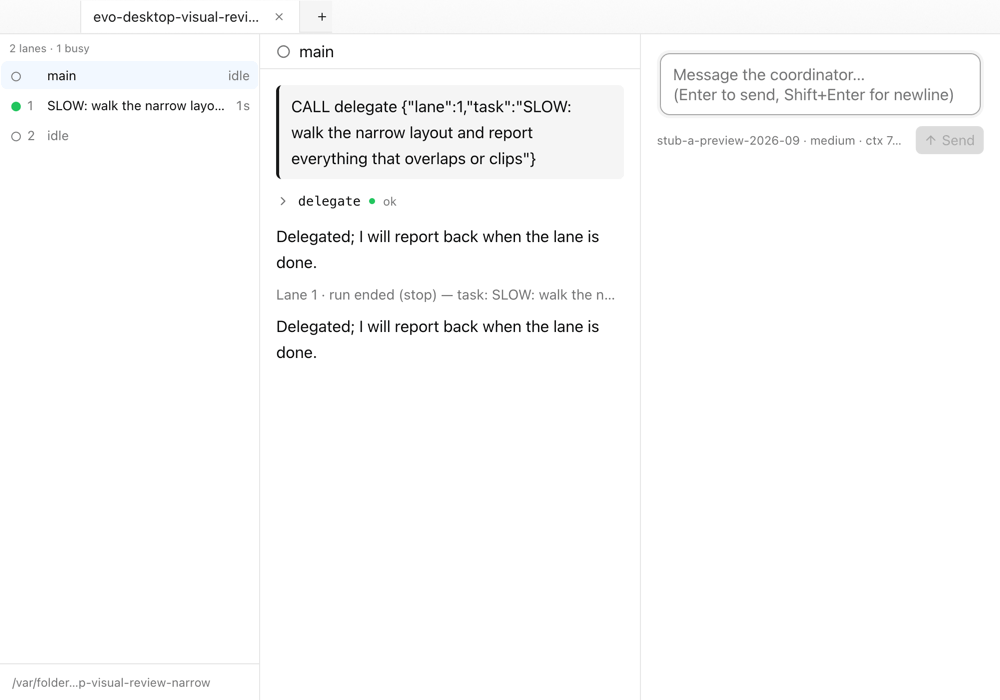
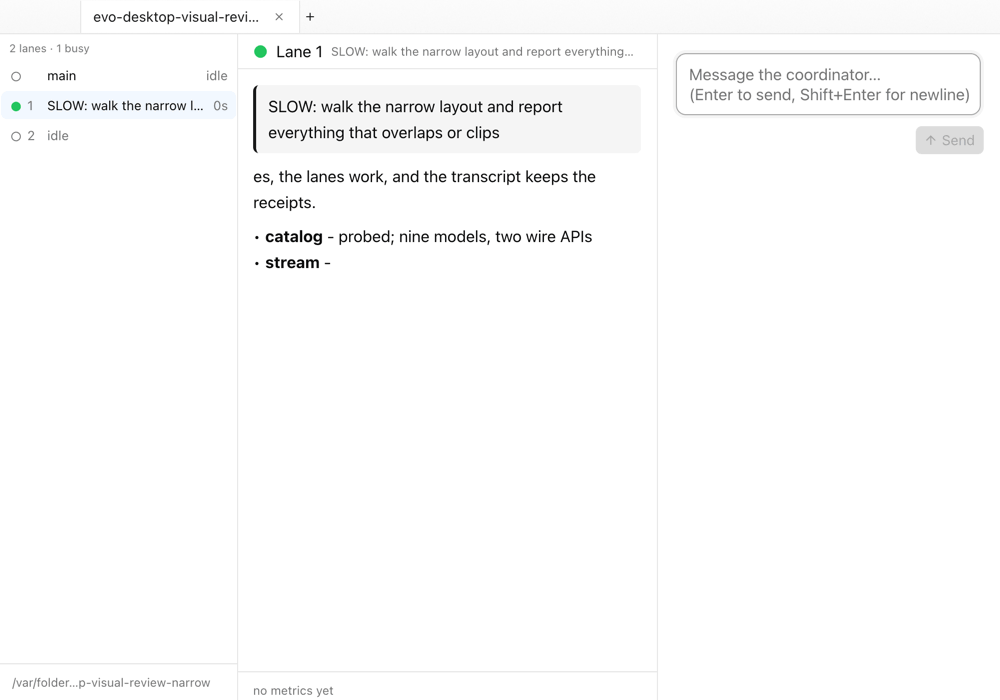
docs(screens): the golden set re-taken at 03fcadd
Twenty captures from one run of app_snapshot at 1x (quantised +dither,
192 colours, 1.0 MB) showing the tree that ships: draggable column
splits, the status line under the transcript following the selected
agent, the composer row down to Send/Stop, lower-case tool captions,
the + outside the tab strip, a failed run said once, and the quiet
lane-notice rows. docs/screens.md is updated row by row. The capture
harness now keeps 04's tool row open across a resync, reads 09's
failure from either row shape, and dumps its rows when a state is
missed. OCR finds no private markers in any frame.

diff --git a/crates/app/examples/app_snapshot.rs b/crates/app/examples/app_snapshot.rs
@@ -629,6 +629,12 @@ fn capture(dir: &Path, scale: f32, only: &[String]) -> Result<(), Box<dyn std::e
     cx.run_until_parked();
     if shot_here("04-tool-expanded") {
         both_themes_prepared(&mut cx, window, dir, "04-tool-expanded", screens, |cx| {
+            // Opened twice, with the queue drained in between: opening the row is
+            // itself a pump, and a resync that lands in it clears the expansion, so
+            // the second open — with nothing left queued behind it — is the one the
+            // picture is taken of.
+            expand_tool_row(cx, &first);
+            cx.run_until_parked();
             expand_tool_row(cx, &first);
         })?;
     }
@@ -810,6 +816,17 @@ fn capture(dir: &Path, scale: f32, only: &[String]) -> Result<(), Box<dyn std::e
     let retried = wait_within(&mut cx, 60, |cx| dim_row(cx, &bad, "retrying").is_some());
     let ended = wait_within(&mut cx, 90, |cx| run_outcome(cx, &bad).is_some());
     println!("[state] compaction row: {compacted}, retry row: {retried}, outcome row: {ended}");
+    if !compacted || !retried || !ended {
+        // Said in the log, because a picture of a state that was not reached
+        // cannot say what it missed.
+        println!(
+            "[state] the deep-context tab was working: {}",
+            working(&cx, &bad)
+        );
+        for row in row_dump(&cx, &bad) {
+            println!("[rows] {row}");
+        }
+    }
     if let Some(outcome) = run_outcome(&cx, &bad) {
         println!(
             "[state] the run says: {}",
@@ -1133,10 +1150,16 @@ fn both_themes_prepared(
     screens: Screens,
     prepare: impl Fn(&mut HeadlessAppContext),
 ) -> Result<(), Box<dyn std::error::Error>> {
+    // Whatever is already queued — a resync, most of all — is applied *before*
+    // the state is prepared: a rebuild that lands while a row is open replaces
+    // the rows and the expansion goes with them, and the picture is then of the
+    // state before the prepare.
     cx.update(|cx| Theme::change(ThemeMode::Light, None, cx));
+    cx.run_until_parked();
     prepare(cx);
     shot(cx, window, dir, &format!("{name}-light.png"), screens)?;
     cx.update(|cx| Theme::change(ThemeMode::Dark, None, cx));
+    cx.run_until_parked();
     prepare(cx);
     shot(cx, window, dir, &format!("{name}-dark.png"), screens)?;
     Ok(())
@@ -1310,10 +1333,18 @@ fn row_dump(cx: &HeadlessAppContext, tab: &Entity<workspace::TabContent>) -> Vec
                             RowKind::Assistant {
                                 markdown,
                                 streaming,
+                                error,
                                 ..
                             } => (
                                 "assistant",
-                                format!("{}{markdown}", if *streaming { "*" } else { "" }),
+                                format!(
+                                    "{}{markdown}{}",
+                                    if *streaming { "*" } else { "" },
+                                    match error {
+                                        Some(error) => format!(" [error: {error}]"),
+                                        None => String::new(),
+                                    }
+                                ),
                             ),
                             RowKind::Tool { name, result, .. } => (
                                 "tool",
@@ -1361,14 +1392,23 @@ fn dim_row(
 }
 
 /// The row a bad run leaves: `run-end` with an outcome that is not a clean stop.
+///
+/// A failed run is said once (`session::AgentModel::push_run_outcome`): when the
+/// failing message's own row already carries the error, that row *is* the run's
+/// last word and no outcome row is added beside it. Read from the last row back,
+/// so what comes back is that last word and not an earlier turn's.
 fn run_outcome(cx: &HeadlessAppContext, tab: &Entity<workspace::TabContent>) -> Option<String> {
     tab.read_with(cx, |tab, cx| {
         tab.transcript().and_then(|view| {
             view.read(cx)
                 .rows(cx)
                 .iter()
+                .rev()
                 .find_map(|row| match &row.kind {
                     RowKind::RunOutcome { text, .. } => Some(text.clone()),
+                    RowKind::Assistant {
+                        error: Some(error), ..
+                    } if !error.is_empty() => Some(format!("Run failed: {error}")),
                     _ => None,
                 })
         })

diff --git a/docs/screens.md b/docs/screens.md
@@ -25,29 +25,35 @@ these files come out of (110–172 colours, not a full 192).
 
 The pictures are a *golden* set — nothing re-checks them — so take them again
 after a change to the chrome, the tab page or the transcript and compare by eye.
-`--only 08,09` draws only the states whose names it lists, and takes the earlier
-ones without saving them, which is the cheap way to re-take the last few.
+`--only 08-narrow-1000x700,09-bad-run` saves those states and no others — the
+ids are the whole names in the table above, and a bare `08` matches nothing —
+while every state before them is still taken, which is the cheap way to re-take
+the last few.
 
 | capture | what it shows |
 |---|---|
 | `01-launch-light.png`, `01-launch-dark.png` | The app at launch (§7.2): one empty tab whose three choosers stand on `Default` — the first of them, `Coordinator model`, wearing the focus ring, because a tab puts the keyboard where its work starts — and the six resumable swarms the scan found, the newest of them `~/coding/evo-gui`, `6 lanes`, `11m ago`, `coordinator: claude-opus-5-5`. |
 | `01b-lanes-chooser-light.png`, `01b-lanes-chooser-dark.png` | The lanes chooser open (§9.4), its menu filled from the catalog: five models a quarantined lane may be given, and `claude-opus-5-5` greyed with *needs an extension API — set it in swarm.lisp*. The menu holds six rows and shows five and a half — `kimi-k2-0905` is cut at the fold, with no bar to say the menu scrolls. |
-| `02-three-tabs-light.png`, `02-three-tabs-dark.png` | Three tabs — two running swarms and an empty one — with the first mid-stream: a heading, a list, a table and a code fence, all rendered by the transcript's markdown (§2.8). The shown tab wears the activity dot the strip puts before a running coordinator's label, and its two lanes are still `starting` — the swarm is up before its lanes are. |
+| `02-three-tabs-light.png`, `02-three-tabs-dark.png` | Three tabs — two running swarms and an empty one — with the first mid-stream: a heading, a list, a table and a code fence, all rendered by the transcript's markdown (§2.8). The shown tab wears the activity dot the strip puts before a running coordinator's label, its two lanes are `idle` in the lane list (the capture waits for the swarm's rows to settle before it draws), and §7.3's readout sits under the transcript as the tab page's status line — `stub-a-preview-2026-09 · medium · ctx 0k/200k (0%)`. |
 | `03-lane-todos-light.png`, `03-lane-todos-dark.png` | Lane 1 selected (§7.3, §9.3): the task it was delegated, the `todo` call it made, the write-up it streamed, and the checklist panel — `Todos 1/3`, one item in each state. |
-| `04-tool-expanded-light.png`, `04-tool-expanded-dark.png` | The coordinator's `delegate` call opened onto its arguments and its result (§2.8). |
+| `04-tool-expanded-light.png`, `04-tool-expanded-dark.png` | The coordinator's `delegate` call opened onto its `arguments` (the lane, the task) and its `result` (§2.8), the captions lower-case as a tool panel draws them. |
 | `05-boot-failure-light.png`, `05-boot-failure-dark.png` | A swarm that could not start (§9.7): *Could not start a swarm*, the folder, the server's log tail, `Retry` and `Close`. |
-| `06-reconnecting-light.png`, `06-reconnecting-dark.png` | The coordinator's stream gone quiet (§9.7): the amber `reconnecting` badge on the `main` row, the spinner row in the centre, and a disabled `Send`. |
-| `07-tab-strip-light.png`, `07-tab-strip-dark.png` | The tab strip past its width (§7.1): fourteen tabs, ten of them folders whose names the strip truncates, and the last one a live swarm. The strip is scrolled to the tab being shown — the last one, with its `×` — so the seven tabs on screen are the seven newest, the first of them clipped at the window's left edge, and the `+` stays inside the window. |
-| `08-narrow-1000x700-light.png`, `08-narrow-1000x700-dark.png` | The tab page at §7.1's smallest window, 1000×700: three columns side by side, the coordinator's answer and the `delegate` row it made, lane 1's task ellipsized to `SLOW: walk the narrow layo…` in the lane list with its step clock beside it, the readout ellipsized behind `ctx 7…`, the composer's card, and nothing overlapping. |
+| `06-reconnecting-light.png`, `06-reconnecting-dark.png` | The coordinator's stream gone quiet (§9.7): the amber `reconnecting` badge on the `main` row, the spinner row in the centre, a disabled `Send`, and the swarm's `Lane 1 · run ended (stop) — task: …` drawn as a quiet row and answered in one line. |
+| `07-tab-strip-light.png`, `07-tab-strip-dark.png` | The tab strip past its width (§7.1): fourteen tabs, ten of them folders whose names the strip truncates, and the last one a live swarm. The strip is scrolled to the tab being shown — the last one, with its `×` — so the seven tabs on screen are the seven newest, the first of them clipped at the window's left edge, and the `+` sits outside the strip, past a divider, still inside the window. |
+| `08-narrow-1000x700-light.png`, `08-narrow-1000x700-dark.png` | The tab page at §7.1's smallest window, 1000×700: three columns side by side, lane 1 selected and its task ellipsized to `SLOW: walk the narrow l…` in the lane list with its step clock beside it, lane 1's own transcript mid-stream in the centre, the status line under it (a lane's own, `no metrics yet`, until the swarm reports any), the composer's card, and nothing overlapping. |
 | `09-bad-run-light.png`, `09-bad-run-dark.png` | A run that ended badly (§5, §9.5): the compaction a full context forced (`Compacting context…`, `Context compacted`), the provider dying mid-stream four times (`Retrying provider (n/4)`), and the failure itself, once per failed run — the failing message's own `error: Provider request failed after 4 attempts: Stream ended without a terminal event (truncated response)`. |
 
 ## What is real, and what is scripted
 
-Real: the window and its chrome, the tab strip, the empty tab and its choosers,
-the tab page's three columns, the transcript (markdown, tool rows, reports, dim
-rows), the composer and the §7.3 readout, the lane list with its glyphs, step
-clock and badge, `tab_engine` driving everything, and `evo-swarm`/`evo-agent`
-spawned as real processes with real SSE streams, journals and shutdown ladders.
+Real: the window and its chrome, the tab strip (its activity dot, its `×`, and
+the `+` past the last tab), the empty tab and its choosers, the tab page's three
+columns and their draggable splits (`crates/workspace/src/panes.rs`), the
+transcript (markdown, tool rows, reports, dim rows, and the quiet rows a lane
+notice or a piece of context becomes), the composer, the status line under the
+transcript — §7.3's readout, drawn for the agent being shown rather than for the
+coordinator alone — the lane list with its glyphs, step clock and badge,
+`tab_engine` driving everything, and `evo-swarm`/`evo-agent` spawned as real
+processes with real SSE streams, journals and shutdown ladders.
 
 Scripted, because a picture is not worth a model call:
 
